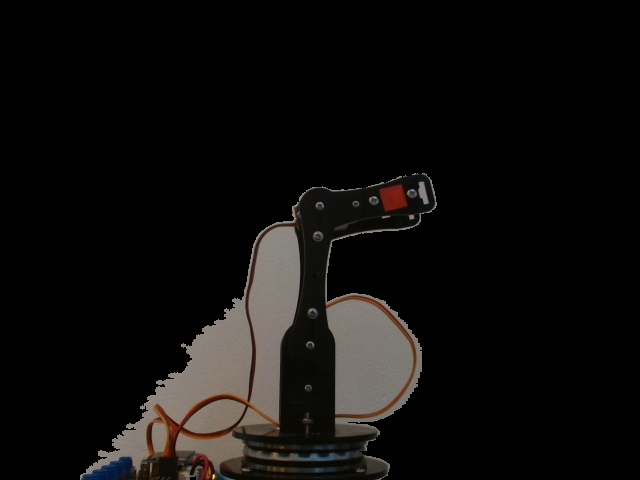
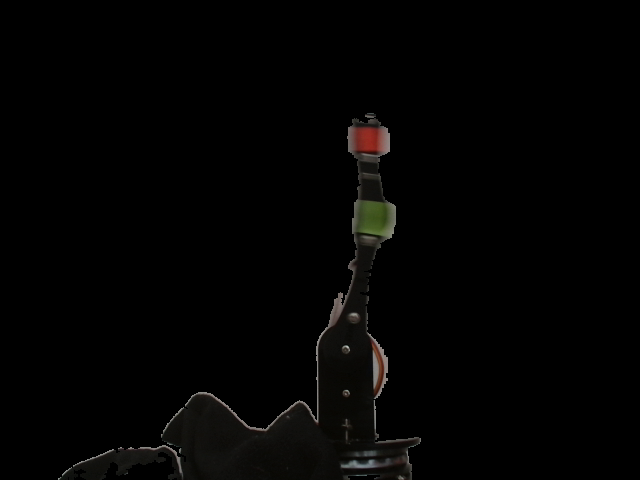
Add environment with discrete action space

Changed region(s): [[0.0938, 0.2188, 0.6875, 1.0]]

diff --git a/robotics/RobotArmDetector.py b/robotics/RobotArmDetector.py
@@ -1,4 +1,5 @@
 # import the opencv library
+import collections
 import random
 import cv2
 import os
@@ -7,8 +8,9 @@ from cv2 import MORPH_OPEN
 import numpy as np
 
 cameraOnly = False
-arm_mask_min, arm_mask_max = np.array([0,14,1]),np.array([150,253,127])
-sticker_mask_min, sticker_mask_max = np.array([0,82,29]),np.array([13,255,191])
+arm_mask_min, arm_mask_max = np.array([0,36,0]),np.array([59,215,184])
+sticker_mask_min, sticker_mask_max = np.array([0,96,83]),np.array([7,255,214])
+green_sticker_min, green_sticker_max = np.array([22,21,60]),np.array([69,146,214])
 
 default_target_locations = [(0.6,0.3),
 (0.41,0.29),
@@ -95,8 +97,8 @@ class RobotArmDetector:
         self.__show_image('arm-mask', result)
         return result
 
-    def __get_sticker_coordinates(self,image_robotarm):
-        image_sticker = cv2.inRange(image_robotarm, sticker_mask_min, sticker_mask_max)
+    def __get_sticker_coordinates(self,image_robotarm, mask_min, mask_max):
+        image_sticker = cv2.inRange(image_robotarm, mask_min, mask_max)
         self.__show_image('sticker', image_sticker)
         element = cv2.getStructuringElement(MORPH_ELLIPSE,(3,3))
         image_sticker = cv2.morphologyEx(image_sticker,MORPH_OPEN, element)
@@ -111,11 +113,15 @@ class RobotArmDetector:
             return (cX,cY)
         
         return (None,None)
-
+    
     def put_info(self, distance, reward, step, actions, pos_servos):
         text_image = cv2.putText(self.final_image, f'step: {step}, target: {self.__target_location[0]:3.2},{self.__target_location[1]:3.2}, arm: {self.position[0]:3.2},{self.position[1]:3.2}',
             (10,30),cv2.FONT_HERSHEY_COMPLEX,0.45,(20,20,0))
-        text_image = cv2.putText(text_image, f'dist:{distance:3.3}, rew: {float(reward):3.2}, actions:{float(actions[0]):3.2},{float(actions[1]):3.2}, servos:{int(pos_servos[0]*180)},{int(pos_servos[1]*180)}',
+        if isinstance(actions,collections.Sequence):
+            text_image = cv2.putText(text_image, f'dist:{distance:3.3}, rew: {float(reward):3.2}, actions:{float(actions[0]):3.2},{float(actions[1]):3.2}, servos:{int(pos_servos[0]*180)},{int(pos_servos[1]*180)}',
+            (10,50),cv2.FONT_HERSHEY_COMPLEX,0.45,(20,20,0))
+        else:
+            text_image = cv2.putText(text_image, f'dist:{distance:3.3}, rew: {float(reward):3.2}, action:{actions}, servos:{int(pos_servos[0]*180)},{int(pos_servos[1]*180)}',
             (10,50),cv2.FONT_HERSHEY_COMPLEX,0.45,(20,20,0))
         cv2.imshow('spotted',text_image)
         cv2.waitKey(10)
@@ -131,16 +137,24 @@ class RobotArmDetector:
         self.__save_sample(image_robotarm, 'arm_sample.png')
         self.__show_image('robot-arm', image_robotarm)
         
-        cX, cY = self.__get_sticker_coordinates(image_robotarm)
+        cX, cY = self.__get_sticker_coordinates(image_robotarm, sticker_mask_min, sticker_mask_max)
         if (cX == None or cY == None):
             print('Could not find arm end coordinates, returning defaults...')
             cX = self.width // 2
             cY = self.height // 2
         final = cv2.circle(image, (cX, cY), 5, (0, 255, 255), -1)
         target = self.get_target_location()
-        self.final_image = cv2.circle(image, (int(target[0] * self.width), int(target[1] * self.height)), 5, (0, 0, 255), -1)
+        self.final_image = cv2.circle(image, (int(target[0] * self.width), int(target[1] * self.height)), 5, (255, 0, 255), -1)
         self.position = (cX/self.width, cY/self.height)
-        return self.position
+        
+        cgreenX, cgreenY = self.__get_sticker_coordinates(image_robotarm, green_sticker_min, green_sticker_max)
+        if (cgreenX == None or cgreenY == None):
+            print('Could not find arm green end coordinates, returning defaults...')
+            cgreenX = self.width // 2
+            cgreenY = self.height // 2
+        final = cv2.circle(final, (cgreenX, cgreenY), 5, (0, 0, 255), -1)
+        self.green_position = (cgreenX/self.width, cgreenY/self.height)
+        return [self.position, self.green_position ]
     
     def __save_sample(self, image, filename='sample.png'):
         if (self.debug):

diff --git a/robotics/RobotArmDiscreteEnv.py b/robotics/RobotArmDiscreteEnv.py
@@ -9,11 +9,11 @@ from RobotArmDetector import RobotArmDetector
 import collections
 
 
-class RobotArmEnv(gym.Env):
+class DiscreteRobotArmEnv(gym.Env):
     def __init__(self):
         super().__init__()
         self.observation_space = gym.spaces.Box(low=0.0, high=1.0, shape=(8,), dtype=np.float32)
-        self.action_space = gym.spaces.Box(low=-1.0, high=1.0, shape=(2,), dtype=np.float32)
+        self.action_space = gym.spaces.Discrete(16)
         self.controller = RobotArmController()
         self.detector = RobotArmDetector(False)
         self.visited_x = []
@@ -48,8 +48,7 @@ class RobotArmEnv(gym.Env):
         return self.state
 
     def step(self, action):
-
-        new_servo_positions = self.controller.move_servos(action[0], action[1])
+        new_servo_positions = self.controller.move_servos_discrete(action)
         self.previous_servo_positions.append(new_servo_positions)
         
         p = self.detector.get_current_arm_end_coordinates()
@@ -66,16 +65,17 @@ class RobotArmEnv(gym.Env):
         else:
             self.stand_still_count += 1
 
-        self.state = (target_x, target_y, new_x, new_y, new_servo_positions[0], new_servo_positions[1],green_x, green_y)
+        
         self.timestep += 1
         
-        self.visited_x.append(self.state[2])
-        self.visited_y.append(self.state[3])
-
         done = False
+        
         distance_max = sqrt((np.max([target_x, 1-target_x])) ** 2 + ((np.max([target_y, 1-target_y])) ** 2))
+        previous_distance = sqrt((target_x - self.state[2]) ** 2 + (target_y - self.state[3]) ** 2)
         distance = sqrt((target_x - new_x) ** 2 + (target_y - new_y) ** 2)
-
+        
+        self.state = (target_x, target_y, new_x, new_y, new_servo_positions[0], new_servo_positions[1],green_x, green_y)
+        
         if distance < 0.04:
             reward = 50
             done = True
@@ -86,8 +86,8 @@ class RobotArmEnv(gym.Env):
         else:
             reward = -0.1 + (-1) * float(np.max([0.2, distance])) * self.stand_still_count/self.timsteps_max
 
+
         if self.timestep == self.timsteps_max:
-            reward = -1
             done = True
             self.episodes_without_success += 1
             print('End of episode. Target not reached.')
@@ -101,22 +101,21 @@ class RobotArmEnv(gym.Env):
 
 
 if __name__ == "__main__":
-    env = RobotArmEnv()
+    env = DiscreteRobotArmEnv()
 
     env = Monitor(env, './logs/')
     eval_callback = EvalCallback(env, best_model_save_path='./logs/',
                                  log_path='./logs/', eval_freq=200,
                                  deterministic=True, render=False)
 
-    agent = sb3.SAC(
+    agent = sb3.PPO(
         policy="MlpPolicy",
         env=env,
         verbose=1,
-        learning_starts=800,
         tensorboard_log="./logs/"
     )
 
-    agent.learn(total_timesteps=20000, log_interval=2, callback=eval_callback)
+    agent.learn(total_timesteps=10000, log_interval=2, callback=eval_callback)
 
 # class TensorboardCallback(BaseCallback):
 #     """

diff --git a/robotics/RobotArmController.py b/robotics/RobotArmController.py
@@ -4,6 +4,24 @@ import json
 import time
 import numpy as np
 
+movememts =[
+    [1,1],
+    [1,-1],
+    [1,8],
+    [1,-8],
+    [8,1],
+    [8,-1],
+    [8,8],
+    [8,-8],
+    [-1,1],
+    [-1,-1],
+    [-1,8],
+    [-1,-8],
+    [-8,1],
+    [-8,-1],
+    [-8,8],
+    [-8,-8],
+    ]
 PIN_OUTPUT = 1
 class RobotArmController:
     def __init__(self):
@@ -27,6 +45,9 @@ class RobotArmController:
         self.initialized = True
         return self.__get_position_servos()
     
+    def move_servos_discrete(self, index):
+        return self.move_servos(movememts[index][0]*0.1,movememts[index][1]*0.2)
+
     def move_servos(self, direction_servo1, direction_servo2):
         
         self.move_to(1, self.__convert_direction_to_new_angle(self.servo_angles[1], direction_servo1))
